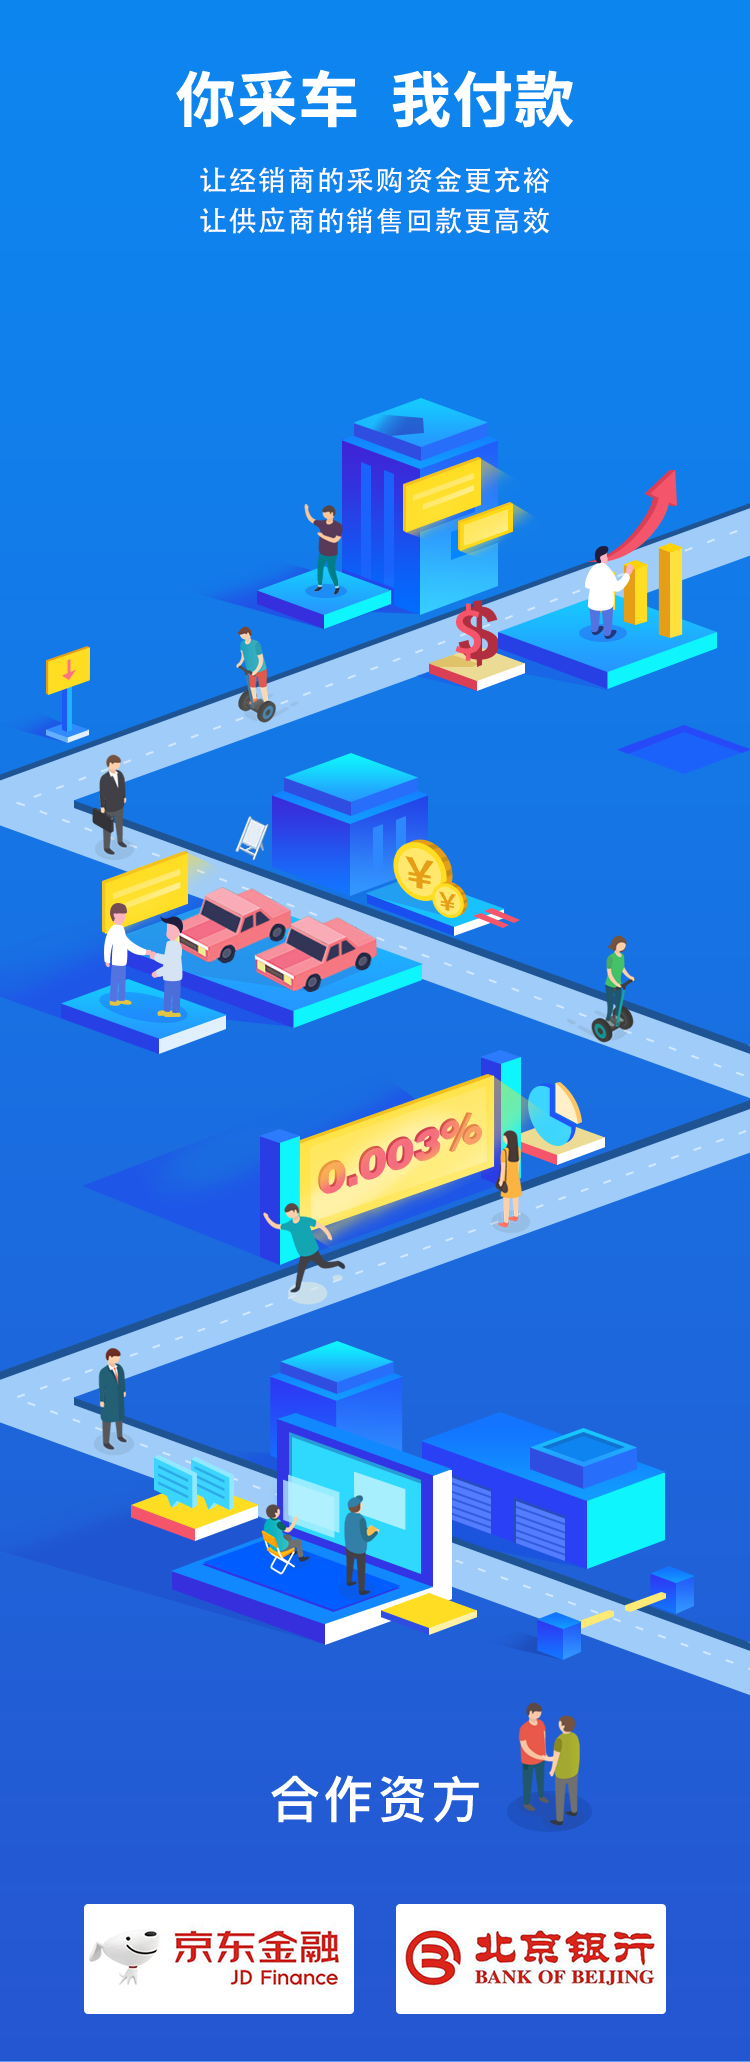
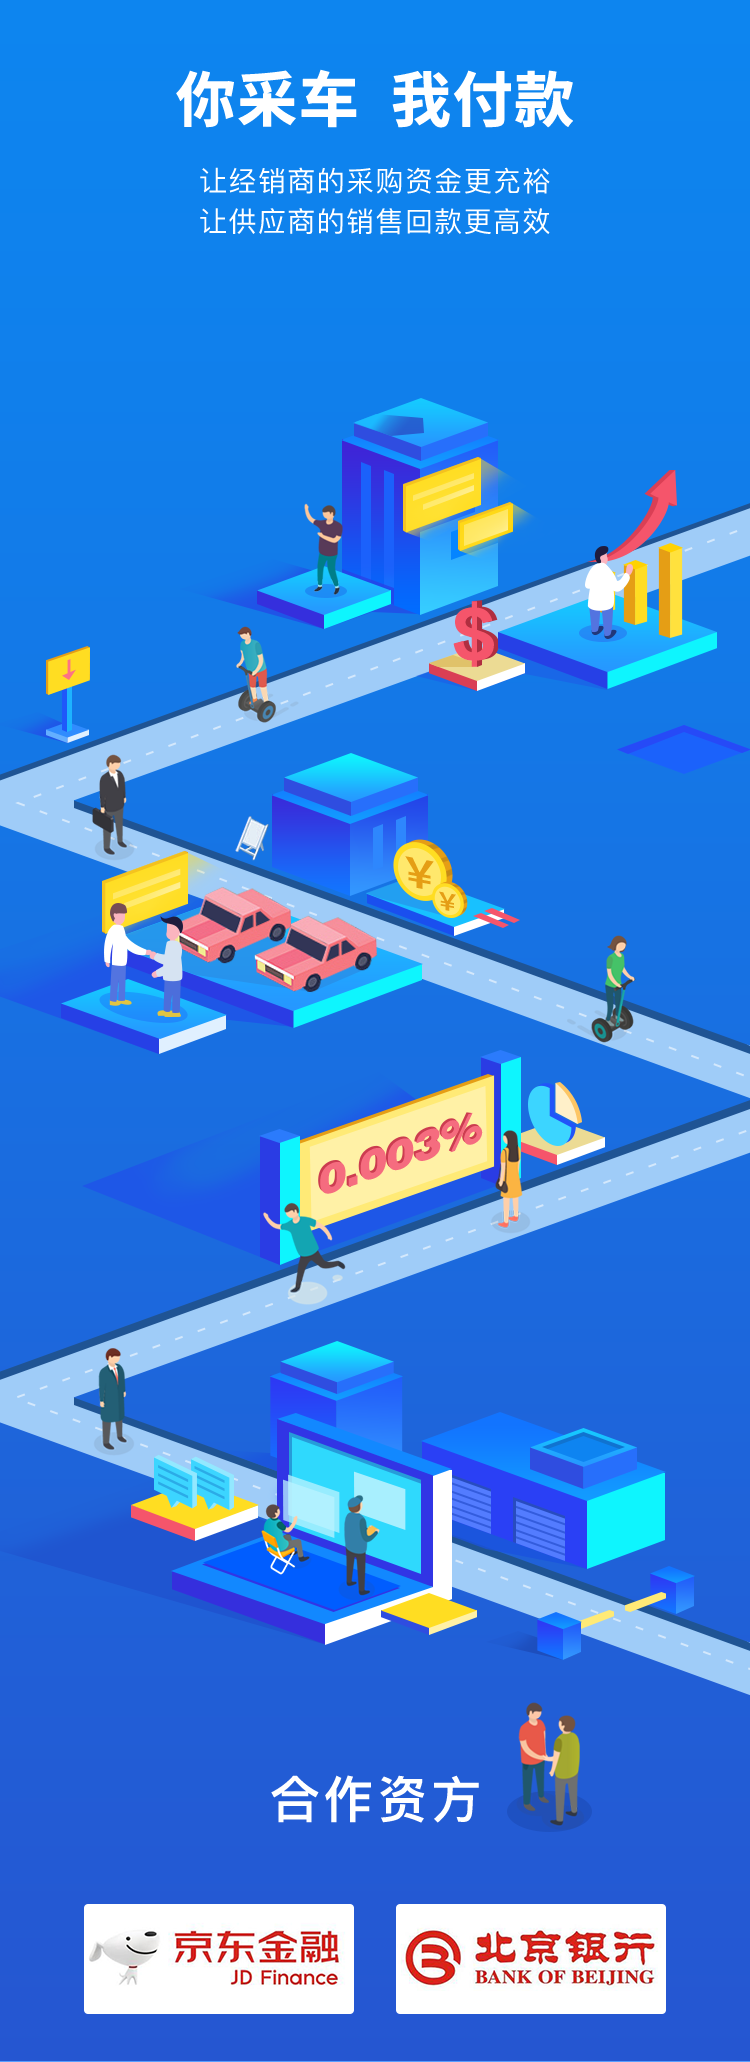
按钮监测添加 动画优化

Changed region(s): [[0.276, 0.0621, 0.736, 0.1242], [0.3987, 0.4966, 0.7053, 0.6208], [0.6133, 0.2793, 0.6747, 0.3414]]

diff --git a/src/page/animation/animation.vue b/src/page/animation/animation.vue
@@ -1,6 +1,7 @@
 <template>
 <div class="animation">
   <img src="./images/animation.png" alt="" class="background">
+  <img src="./images/background.png" alt="" class="backg">
   <div class="alert">
     <img src="./images/height.png" alt="" class="height">
     <img src="./images/quick.png" alt="" class="quick">
@@ -31,15 +32,33 @@ export default {
     },
     methods:{
       call(){
-       window.location.href='emaotaochemao://push/Customer?userName=&phone=&nickName=&headImage=&autoSourceId=&hint='
+        this.$http({
+        url: "https://tcmapi.emao.com/statistics/service/online",
+        method: "POST",
+        params: {
+          token:this.$route.query.token,
+          place:"animation",
+          extra:JSON.stringify(JSON.parse(this.$route.query))
+        }
+      })
+        .then(function(res) {
+         console.log("咨询客服按钮")
+         window.location.href='emaotaochemao://push/Customer?userName=&phone=&nickName=&headImage=&autoSourceId=&hint='
+      
+        })
+        .catch(error => {
+         console.log(error)
+        });
+       
       },
       apply(){
-        this.$router.push({path: "/financing"})
+        this.$router.push({path: "/financing",query:{...this.$route.query}})
       }
 
     },
     created(){
       document.title="融资购车";
+     
 
     }
 }
@@ -51,6 +70,22 @@ export default {
 }
 .animation .background{
   width: 100%
+}
+.animation .backg{
+  width: 100%;
+  position:absolute;
+  top: 0;
+  left: 0;
+  animation:backg 3s linear infinite;
+}
+@keyframes backg {
+  0%{  
+   opacity: 0.5;
+  }
+
+100% {
+   opacity: 1;
+  }
 }
 .animation .people1{
   width: .53333rem;
@@ -134,7 +169,7 @@ width: 3.33333rem;
 height: 2.12rem;
 right: .66667rem;
 top:16.88rem;
-animation:smart 2s linear;
+animation:smart 1s linear;
 }
 @keyframes smart {
   0%{  
